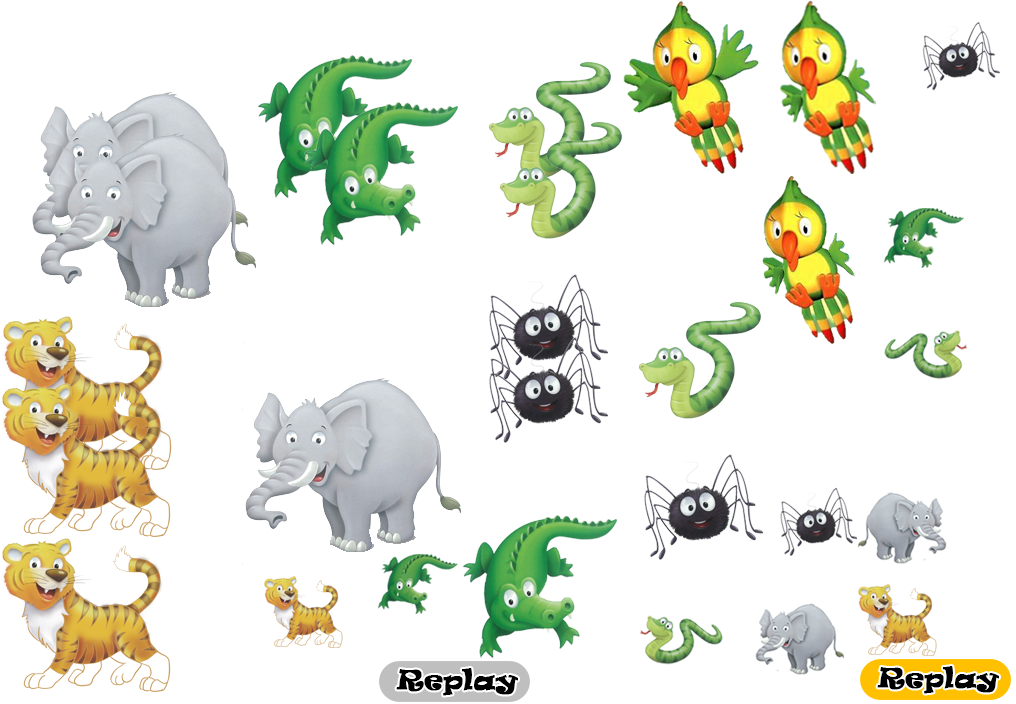
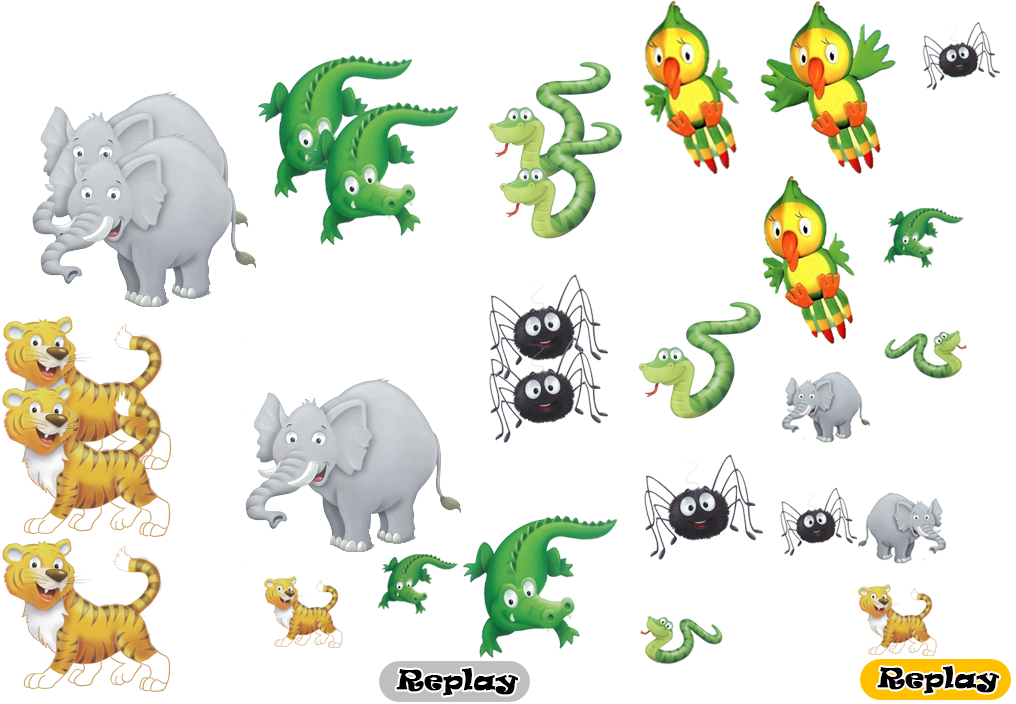
调整泡泡鸟飞走的位置

Changed region(s): [[0.6102, 0.0, 0.8848, 0.25], [0.7323, 0.8438, 0.8238, 0.9688], [0.7628, 0.5312, 0.8543, 0.625]]

diff --git a/bin/js/BubbleAnimal/BubbleAnimalMain.js b/bin/js/BubbleAnimal/BubbleAnimalMain.js
@@ -66,7 +66,7 @@ var BubbleAnimalMain = /** @class */ (function (_super) {
         }
         //鹦鹉归位
         this.polly.scale(1, 1);
-        this.polly.pos(868, 52);
+        this.polly.pos(936, 52);
         this.polly.visible = true;
         this.replaydown.visible = true;
         this.replayon.visible = false;
@@ -103,7 +103,7 @@ var BubbleAnimalMain = /** @class */ (function (_super) {
         if (this.clickNum < 10)
             return;
         var btn1 = this.getChildByName("ani" + num + "-2");
-        // Laya.SoundManager.playMusic("res/audio/21-aniout.mp3",1);
+        Laya.SoundManager.playMusic("res/audio/21-aniout.mp3", 1);
         Laya.Tween.to(btn1, { x: 500, y: 250, scaleX: .3, scaleY: .3 }, 2000, Laya.Ease.linearIn, null, 100);
         Laya.timer.once(2000, this, function () {
             this.goneNum++;
@@ -115,11 +115,11 @@ var BubbleAnimalMain = /** @class */ (function (_super) {
     };
     //游戏结束
     BubbleAnimalMain.prototype.wingame = function () {
-        // Laya.SoundManager.playMusic("res/audio/21-aniout.mp3",1);
+        Laya.SoundManager.playMusic("res/audio/21-aniout.mp3", 1);
         // this.polly.visible = false;
         Laya.timer.frameLoop(5, this, this.onLoop);
-        Laya.Tween.to(this.polly, { x: 460, y: 180, scaleX: .3, scaleY: .3 }, 4000, Laya.Ease.linearIn, null, 100);
-        Laya.timer.once(4000, this, function () {
+        Laya.Tween.to(this.polly, { x: 430, y: 50, scaleX: .2, scaleY: .2 }, 2000, Laya.Ease.linearIn, null, 100);
+        Laya.timer.once(2000, this, function () {
             this.polly.visible = false;
             Laya.timer.clear(this, this.onLoop);
         });

diff --git a/src/BubbleAnimal/BubbleAnimalMain.ts b/src/BubbleAnimal/BubbleAnimalMain.ts
@@ -63,7 +63,7 @@ class BubbleAnimalMain extends ui.BubbleAnimalUI {
 
         //鹦鹉归位
         this.polly.scale(1,1);
-        this.polly.pos(868,52);
+        this.polly.pos(936,52);
         this.polly.visible = true;
 
         this.replaydown.visible = true;
@@ -102,7 +102,7 @@ class BubbleAnimalMain extends ui.BubbleAnimalUI {
     public btnCLick(num:number){
         if(this.clickNum < 10) return;
         let btn1 = this.getChildByName("ani"+num+"-2") as Laya.Image;
-        // Laya.SoundManager.playMusic("res/audio/21-aniout.mp3",1);
+        Laya.SoundManager.playMusic("res/audio/21-aniout.mp3",1);
         Laya.Tween.to(btn1,{x:500,y:250,scaleX:.3,scaleY:.3},2000,Laya.Ease.linearIn,null,100);
         
         Laya.timer.once(2000,this,function(){
@@ -116,12 +116,12 @@ class BubbleAnimalMain extends ui.BubbleAnimalUI {
 
     //游戏结束
     public wingame(){
-        // Laya.SoundManager.playMusic("res/audio/21-aniout.mp3",1);
+        Laya.SoundManager.playMusic("res/audio/21-aniout.mp3",1);
         // this.polly.visible = false;
         Laya.timer.frameLoop(5,this,this.onLoop);
-        Laya.Tween.to(this.polly,{x:460,y:180,scaleX:.3,scaleY:.3},4000,Laya.Ease.linearIn,null,100);
+        Laya.Tween.to(this.polly,{x:430,y:50,scaleX:.2,scaleY:.2},2000,Laya.Ease.linearIn,null,100);
         
-        Laya.timer.once(4000,this,function(){
+        Laya.timer.once(2000,this,function(){
             this.polly.visible =false;
             Laya.timer.clear(this,this.onLoop);
         });

diff --git a/bin/js/Index.js b/bin/js/Index.js
@@ -1,6 +1,6 @@
 // 程序入口，本工程仅用于切换各个动画进行测试
 // 游戏名称，修改这个变量值来切换不同游戏
-var gameName = "dragAnimal";
+var gameName = "bubbleanimal";
 if (gameName == "spotlight") {
     // 聚光灯游戏
     new SpotlightShowPicture();

diff --git a/src/Index.ts b/src/Index.ts
@@ -1,7 +1,7 @@
 // 程序入口，本工程仅用于切换各个动画进行测试
 
 // 游戏名称，修改这个变量值来切换不同游戏
-let gameName = "dragAnimal"; 
+let gameName = "bubbleanimal"; 
 
 if(gameName == "spotlight") {
     // 聚光灯游戏
